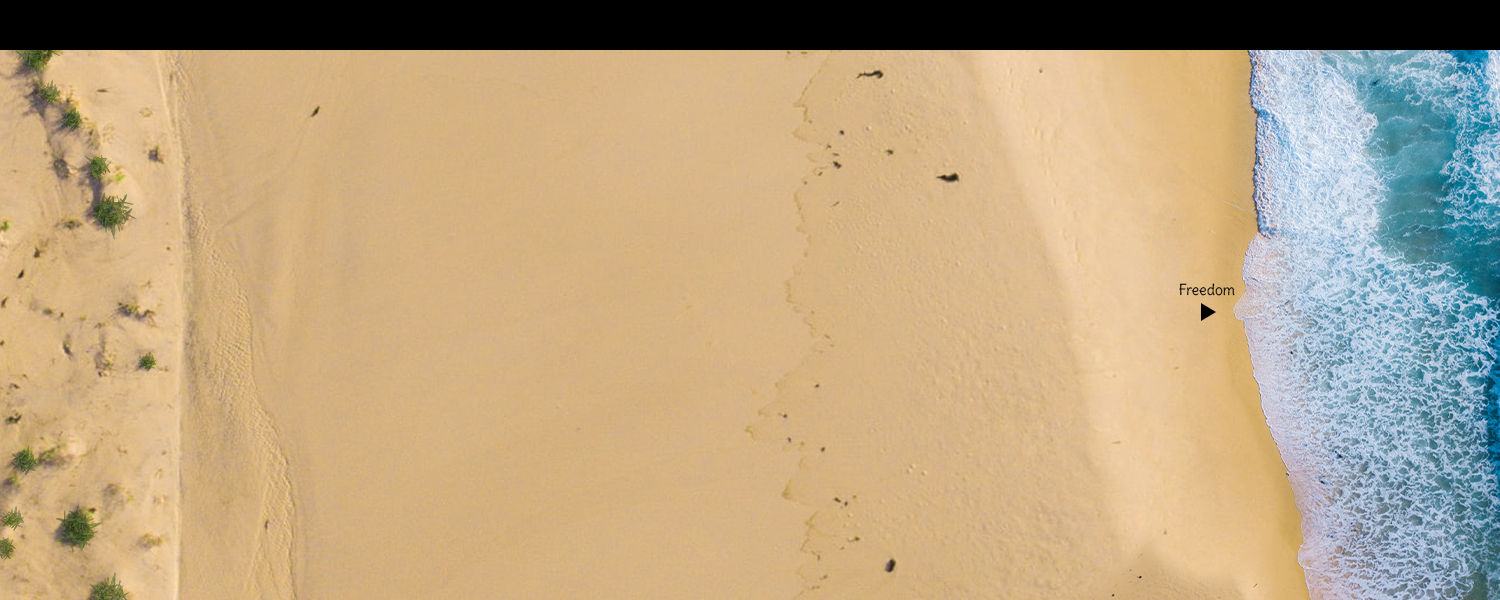
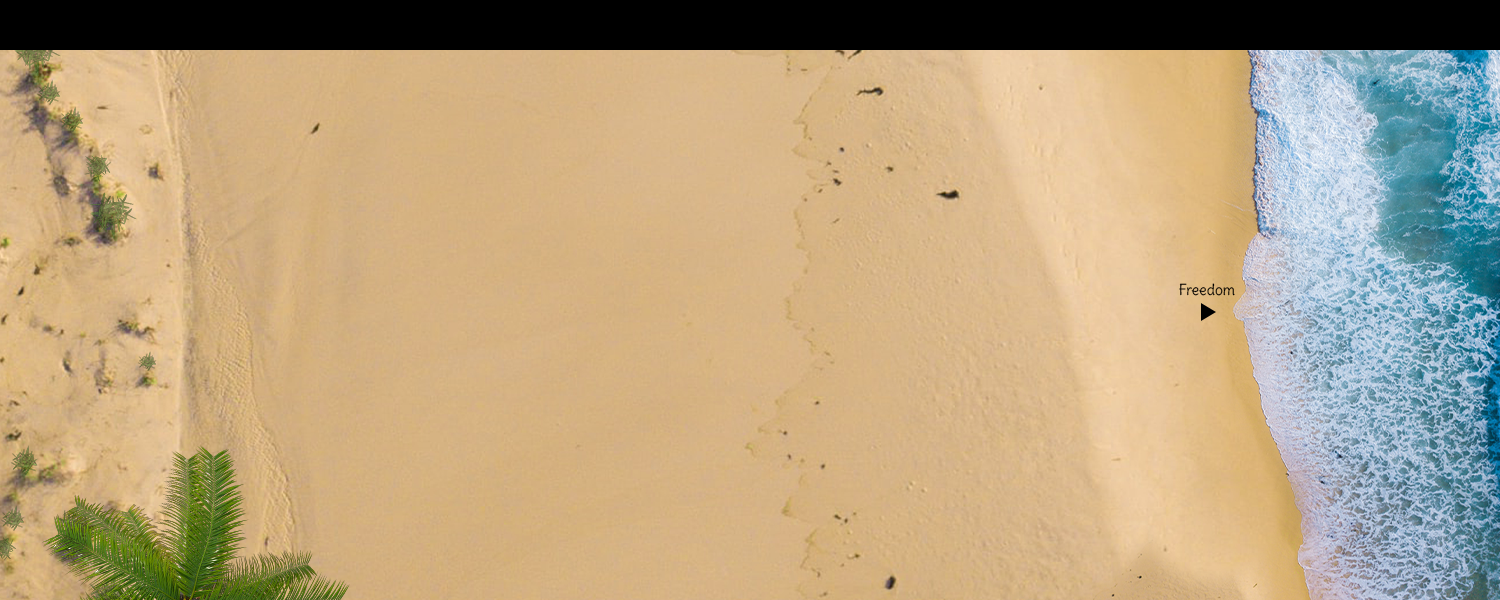
placement of tap, palm, inputUsernaem

diff --git a/ressources/js/Level6/level6.js b/ressources/js/Level6/level6.js
@@ -8,14 +8,23 @@ class Level6{
         //Remove all images
         thisGame.clearImages();
 
-        // Change background
+        //Change background
         document.getElementById('bg').style.backgroundImage = "url('/ressources/images/game/Level6/Level6.png')";
                 
-        // Palms over hero and monsters
+        //Calcul placement according to ininital width of window
+        let marginCanvas = document.getElementById("canvas").offsetLeft;
+        let marginPalm = 0;
+        if (marginCanvas <  250){
+            marginPalm = marginCanvas;
+        } else {
+            marginPalm = 250;
+        }
+        //Palms over hero and monsters 
         let palms = document.createElement('img');
         palms.src = "/ressources/images/game/Level6/Palm.png";
         palms.style.position = 'absolute';
         palms.style.top = 0;
+        palms.style.marginLeft = `${marginPalm}px`;
         document.getElementById('bg').appendChild(palms);
 
         //Place Droppy
@@ -29,7 +38,7 @@ class Level6{
             thisGame.droppy,
             thisGame.timer,
             //Monster
-            new Crab(thisGame.context, 800, 250, thisGame.droppy)
+            new Crab(thisGame.context, 800, 500, thisGame.droppy)
         ];
     }
 

diff --git a/ressources/js/Level1/level1.js b/ressources/js/Level1/level1.js
@@ -13,11 +13,21 @@ class Level1{
         document.getElementById('dropzone').remove();
         document.getElementById('help').remove();
                 
+        
+        //Calcul placement according to ininital width of window
+        let marginCanvas = document.getElementById("canvas").offsetLeft;
+        let marginTap = 0;
+        if (marginCanvas <  250){
+            marginTap = marginCanvas;
+        } else {
+            marginTap = 250;
+        }
         //Tap over hero and monsters
         let tap = document.createElement('img');
         tap.src = "/ressources/images/game/Level1/Tap.png";
         tap.style.position = 'absolute';
         tap.style.top = 0;
+        tap.style.marginLeft = `${marginTap}px`;
         document.getElementById('bg').appendChild(tap);
 
         //Launch the timer

diff --git a/ressources/js/Win/inputUsername.js b/ressources/js/Win/inputUsername.js
@@ -8,11 +8,12 @@ class InputUsername{
         this.results;
 
         //Create input for username
+        let marginCanvas = document.getElementById("canvas").offsetLeft;
         this.input = document.createElement('INPUT');
         this.input.id = 'usernameInput';
         this.input.style.position = 'absolute';
         this.input.style.top = `${this.y+40}px`;
-        this.input.style.left = `${this.x+145}px`;
+        this.input.style.left = `${marginCanvas+100}px`;
         this.input.style.height = "30px";
         this.input.style.width = "200px";
         this.input.style.paddingLeft = "10px";

diff --git a/ressources/js/Level0/level0.js b/ressources/js/Level0/level0.js
@@ -8,7 +8,7 @@ class Level0{
         //Background to start with
         document.getElementById('bg').style.backgroundImage = "url('/ressources/images/game/Level0/Level0.png')";
 
-        //Draw help "?" margin, according to ininital size of window
+        //Draw help "?" margin, according to ininital width of window
         let marginCanvas = document.getElementById("canvas").offsetLeft;
         document.getElementById("help").style.marginLeft = `${marginCanvas + 955}px`; 
         //To work on all navigators, preventDefault() for prevent opening a drag and dropped file in a new tab
